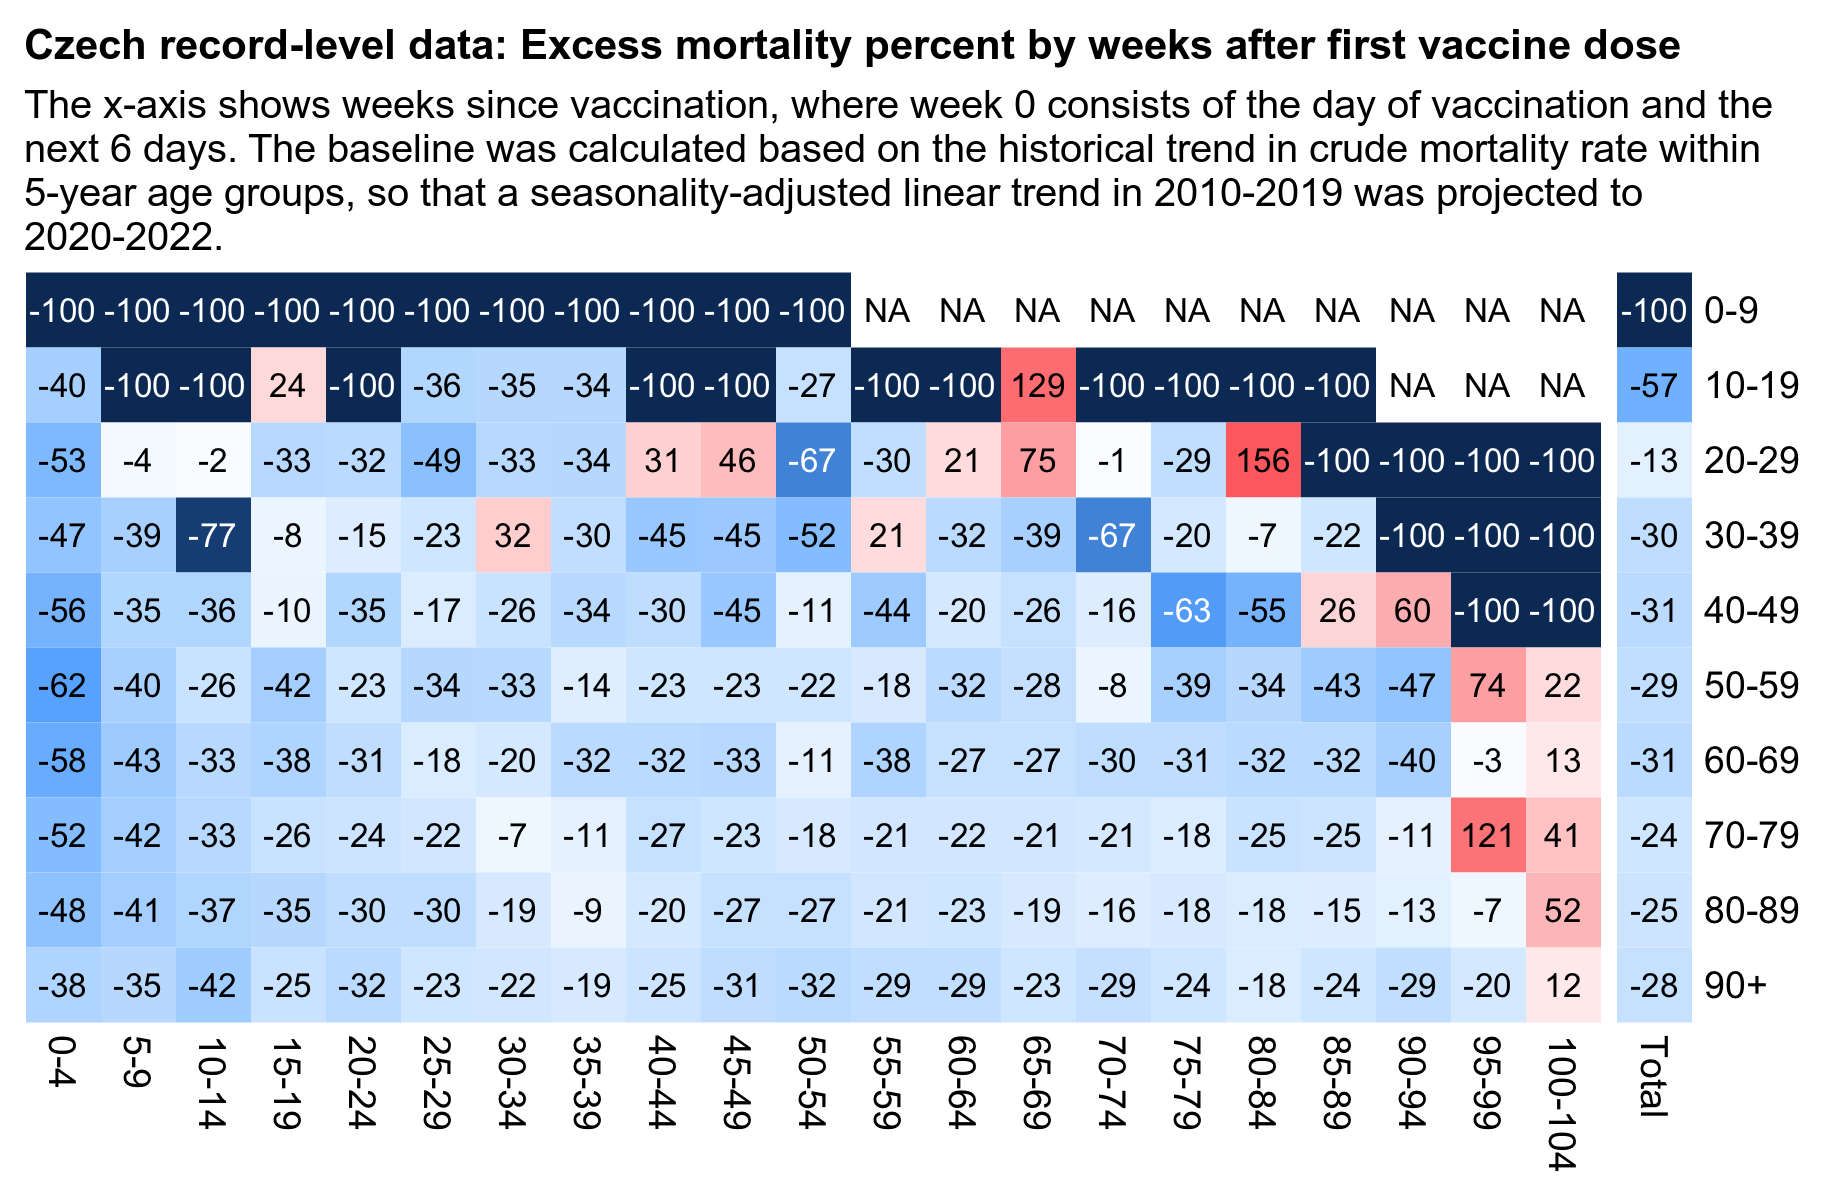
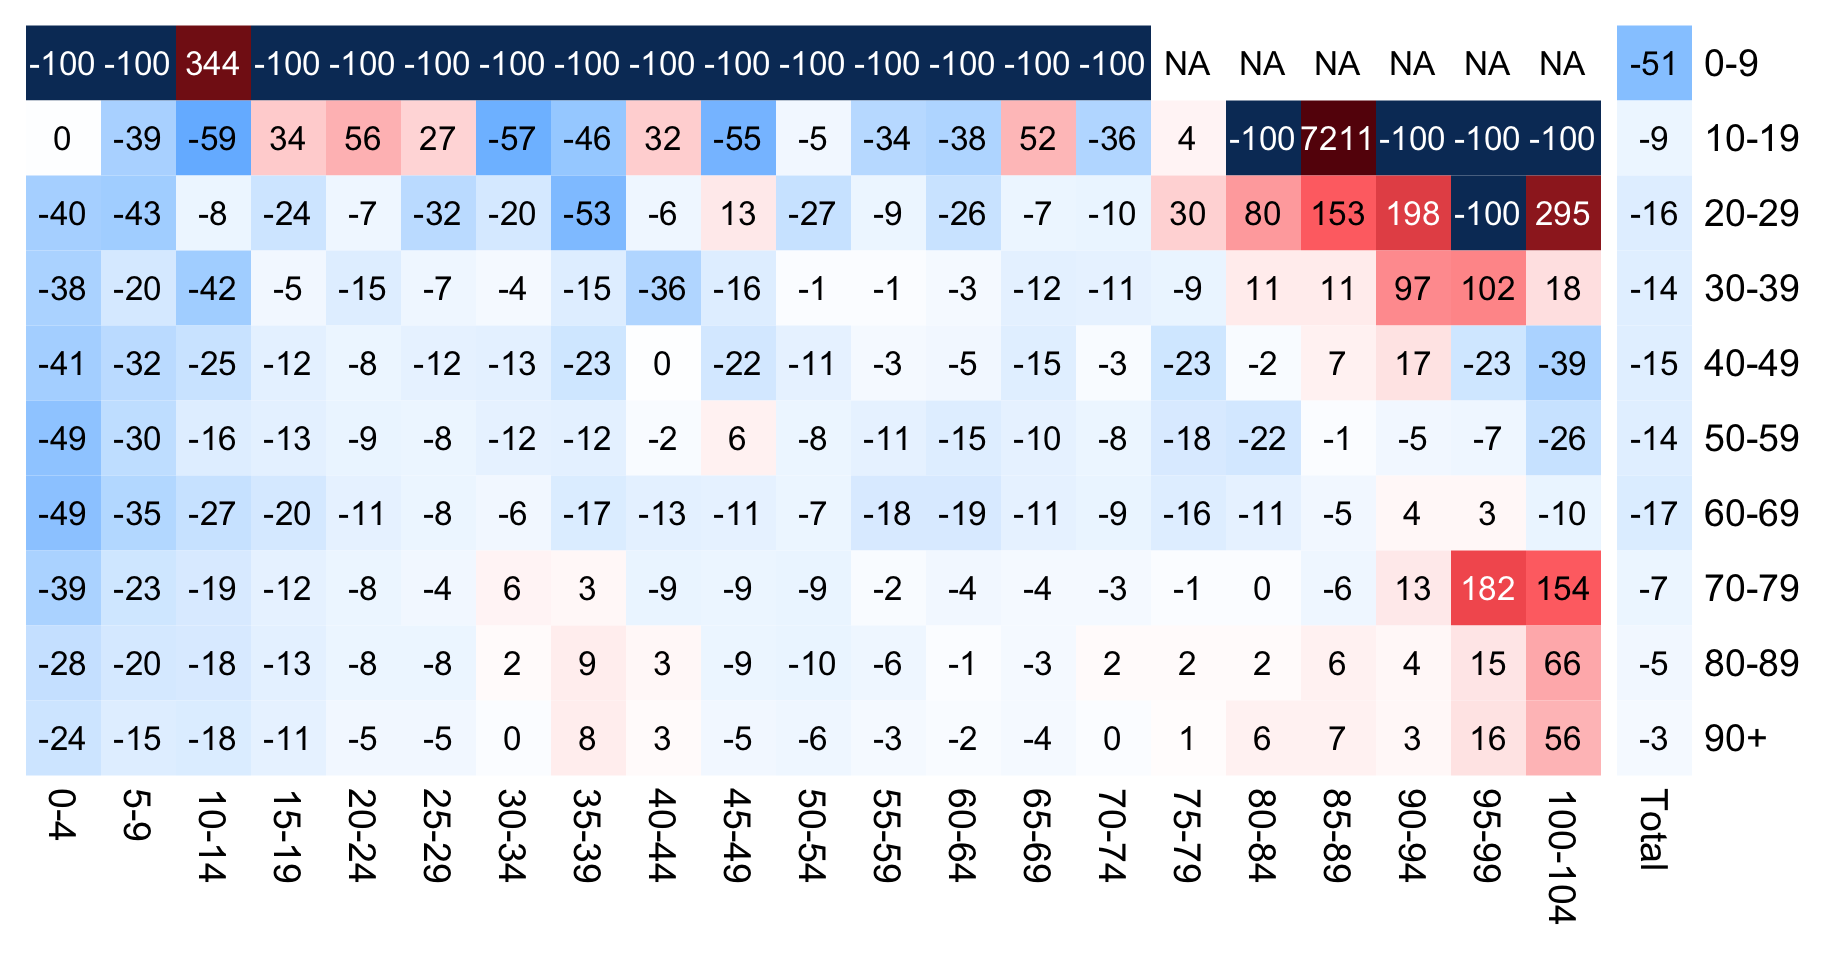
a

diff --git a/czech.html b/czech.html
@@ -850,7 +850,7 @@ head(rate,2)
  8:  70   56.2
  9:  80   62.5
 10:  90   61.0</pre>
-<p>In the next plot I calculated the baseline relative to crude mortality rates by five-year age groups in 2010-2019. However now my excess mortality on weeks 0-4 was about -62% for ages 50-59 but only about -38% for ages 90+, even though ages 90+ and 50-59 had similar total excess mortality over the entire observed period, so it indicates that the temporal healthy vaccinee effect might in fact be less strong in the oldest age groups:</p>
+<p>In the next plot I calculated the baseline relative to crude mortality rates by five-year age groups in 2010-2019. However now my excess mortality on weeks 0-4 was about -49% for ages 50-59 but only about -24% for ages 90+, even though by weeks 10-14 the excess mortality in ages 90+ was already similar to ages 50-59. So it indicates that the temporal healthy vaccinee effect might in fact be less strong in the oldest age groups:</p>
 <div class="width7">
 <img src="i/czech-ageweek-2.png">
 </div>
@@ -863,7 +863,8 @@ t=t[,.(dead=sum(dead),alive=sum(alive)),by=.(month,age,type,week)]
 t=merge(t,t[,.(rate=sum(dead)/sum(alive)),by=.(month,age)])[type!=&quot;Unvaccinated&quot;]
 
 # # second plot
-# t=merge(t[type!=&quot;Unvaccinated&quot;],fread(&quot;http://sars2.net/f/czprojectedcmr.csv&quot;)[,.(rate=mean(rate)/365e5),by=.(month=substr(date,1,7),age)])
+# t2=t[type!=&quot;Unvaccinated&quot;];t2$age=pmin(90,t2$age%/%5*5)
+# t=merge(t2,fread(&quot;http://sars2.net/f/czprojectedcmr.csv&quot;)[,.(rate=mean(rate)/365e5),by=.(month=substr(date,1,7),age)])
 
 t=t[,.(dead=sum(dead),alive=sum(alive),base=sum(rate*alive)),by=.(week%/%bin*bin,age=pmin(90,age%/%agebin*agebin))][order(week)]
 
